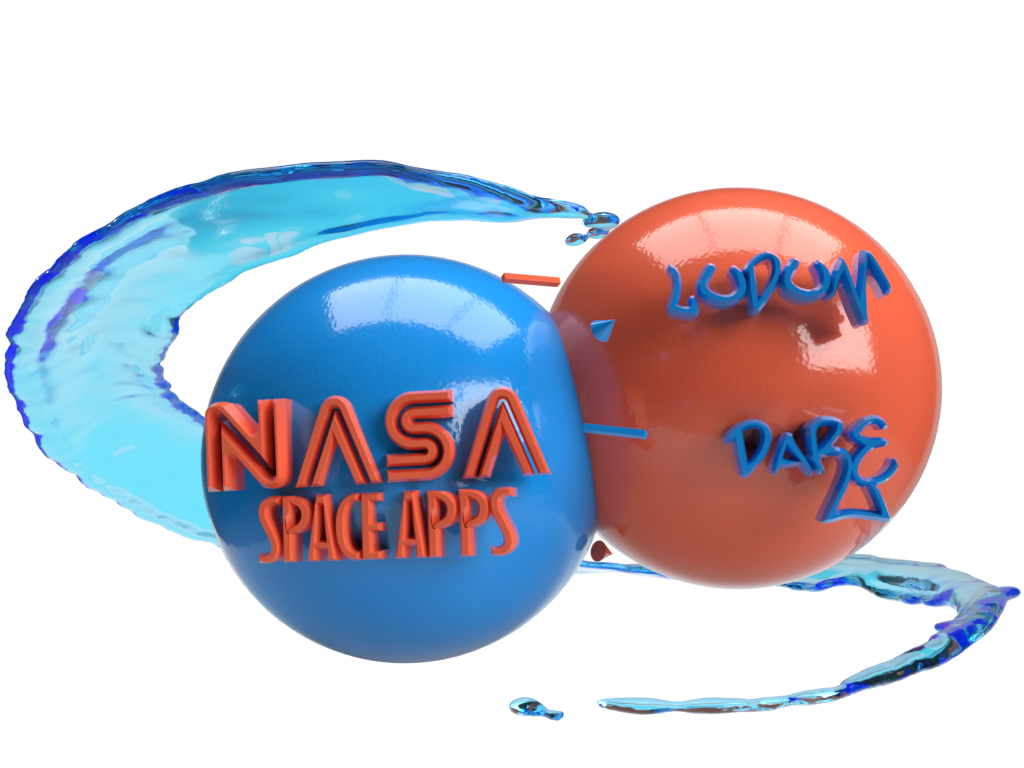
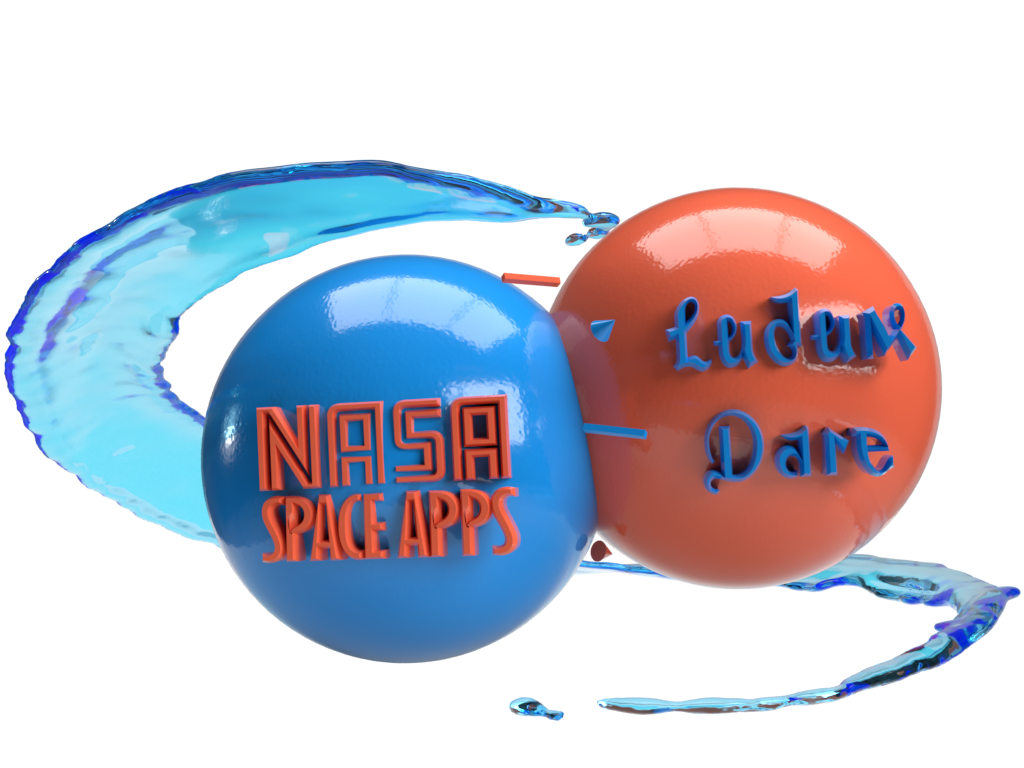
font rebuild

diff --git a/index.html b/index.html
@@ -81,7 +81,7 @@
                 <div class="row">
                     <div class="col-lg-5">
                         <div class="text-container">
-                            <h1><span class="spblue robot">Double</span> <span class="sporange grand"> Dare</span></h1>
+                            <h1><span class="spblue amboy">Double</span> <span class="sporange graffiti"> Dare</span></h1>
                             <p class="p-large">When NASA Space Apps and Ludum Dare, two of the biggest challenges decided to fall within the same weekend, what did we do?</p>
                             <a class="btn-solid-lg page-scroll" href="#idea">DISCOVER</a>
                         </div> <!-- end of text-container -->

diff --git a/css/styles.css b/css/styles.css
@@ -146,12 +146,12 @@ a.white {
 	color: #F06748;
 }
 
-.robot {
-	font-family: 'MrRobot';
+.amboy {
+	font-family: amboy-inline, sans-serif;
 }
 
-.grand {
-	font-family: 'Grand Stylus';
+.graffiti {
+	font-family: graffiti, cursive;
 }
 
 .gils {
